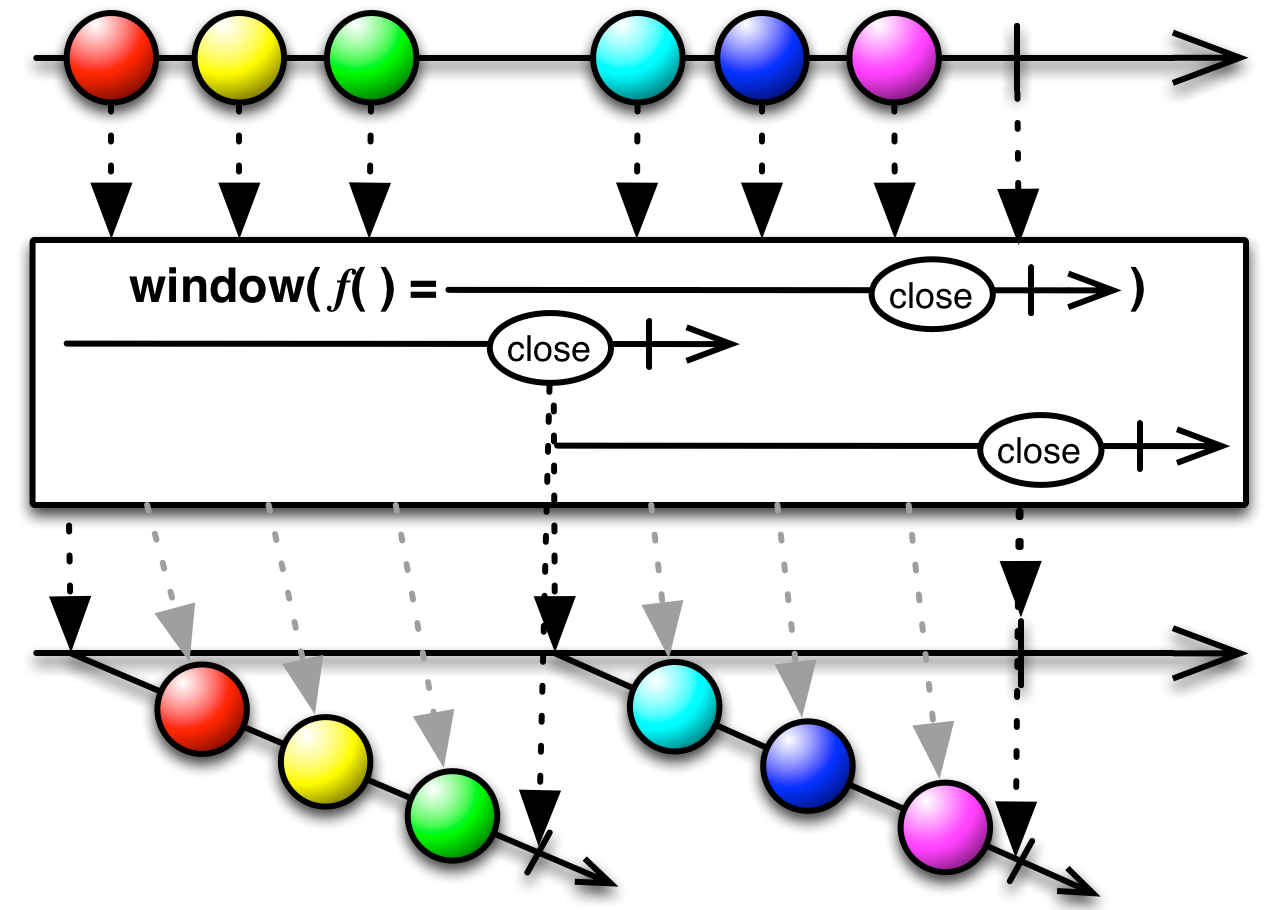
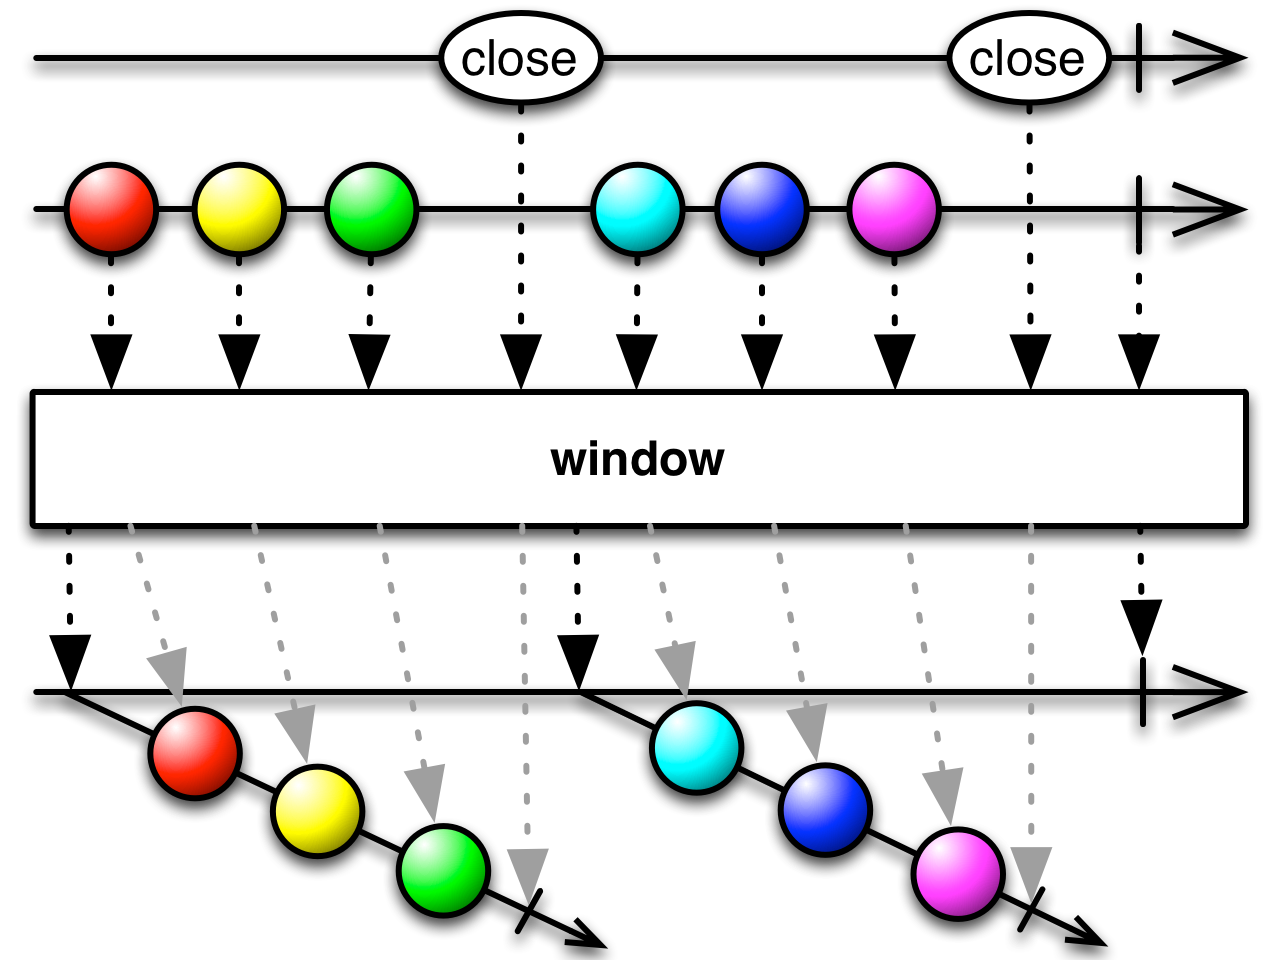
.NET window(closingSelector) not as was once supposed

Changed region(s): [[0.0, 0.0, 1.0, 1.0], [0.0312, 0.6462, 0.0625, 0.6769]]

diff --git a/documentation/operators/window.html b/documentation/operators/window.html
@@ -707,13 +707,12 @@ Observable&lt;Observable&lt;Integer&gt;&gt; burstyWindowed = bursty.window(5);</
       <img src="images/window1.net.png" style="width:100%;" alt="window(windowClosingSelector)" />
       <figcaption><p>
        This variant of <code>Window</code> opens its first window immediately and calls the
-       <code>windowClosingSelector</code> function to obtain a second Observable. When this second
+       <code>windowClosingSelector</code> function to obtain a second Observable. Whenever this second
        Observable emits a <code>TWindowClosing</code> object, <code>Window</code> closes the
-       currently open window, immediately opens a new one, and again calls the
-       <code>windowClosingSelector</code> function to obtain a fresh Observable. It repeats this
-       process until the source Observable terminates. In this way, this variant of
-       <code>Window</code> emits a series of non-overlapping windows whose collective emissions
-       correspond one-to-one with those of the source Observable.
+       currently open window, and immediately opens a new one. It repeats this process until either
+       Observable terminates. In this way, this variant of <code>Window</code> emits a series of
+       non-overlapping windows whose collective emissions correspond one-to-one with those of the
+       source Observable, until the closing selector observable terminates.
       </p></figcaption>
      </figure>
      <h4><code>Window(count)</code></h4>
